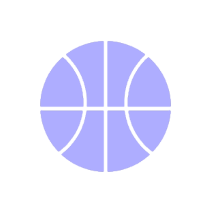
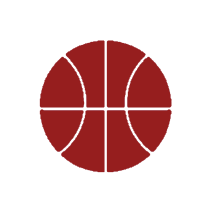
Hobbies upgrade, contact finished

Changed region(s): [[0.1698, 0.169, 0.8208, 0.8169]]

diff --git a/index.html b/index.html
@@ -21,6 +21,7 @@
     <link rel="stylesheet" href="https://cdnjs.cloudflare.com/ajax/libs/font-awesome/4.7.0/css/font-awesome.min.css">
     <link rel="stylesheet" href="https://maxcdn.bootstrapcdn.com/bootstrap/4.0.0/css/bootstrap.min.css"
           integrity="sha384-Gn5384xqQ1aoWXA+058RXPxPg6fy4IWvTNh0E263XmFcJlSAwiGgFAW/dAiS6JXm" crossorigin="anonymous">
+    <script async src="https://www.youtube.com/iframe_api"></script>
 
     <!--Local styles import-->
     <link href="styles/style.css" rel="stylesheet" type="text/css">
@@ -255,7 +256,7 @@
 
 
 <!--Skills Section-->
-<div class="container-fluid">
+<div class="container-fluid skills">
     <div class="row justify-content-around skills-title">
         <div class="col">
             <h1 id="skills-header">Skills</h1>
@@ -280,6 +281,12 @@
 
 <!--Hobbies Section-->
 <div class="container-fluid">
+    <div class="video-background">
+        <div class="video-foreground">
+            <iframe src="https://www.youtube.com/embed/R9wa-7tpods?controls=0&showinfo=0&rel=0&autoplay=1&loop=1&enablejsapi=1"
+                    id="rugby-background" frameborder="0" allowfullscreen></iframe>
+        </div>
+    </div>
     <div class="row pagination-centered hobbies-title">
         <div class="col">
             <h1 id="hobbies-header">Hobbies</h1>
@@ -297,7 +304,7 @@
             <h1 id="contact-header">Contact</h1>
         </div>
     </div>
-    <div class="row justify-content-around">
+    <div class="row justify-content-around contact-block">
         <div class="col-sm-2 center-items">
             <a href="https://github.com/jmalovera10" target="_blank">
                 <span class="fa-stack fa-4x">
@@ -315,7 +322,7 @@
             </a>
         </div>
         <div class="col-sm-2 center-items">
-            <a href="jma.lovera10@uniandes.edu.co" target="_blank">
+            <a href="mailto:jma.lovera10@uniandes.edu.co?">
                 <span class="fa-stack fa-4x">
                     <i class="fa fa-square-o fa-stack-2x"></i>
                     <i class="fa fa-envelope fa-stack-1x"></i>
@@ -366,6 +373,35 @@
 
 <script>
     new WOW().init();
+</script>
+
+<script>
+    function onYouTubeIframeAPIReady() {
+
+        var player;
+
+        player = new YT.Player('rugby-background', {
+            videoId: 'nfk6sCzRTbM',     // THE VIDEO ID.
+            width: 560,
+            height: 316,
+            playerVars: {
+                'autoplay': 1,
+                'controls': 1,
+                'showinfo': 0,
+                'modestbranding': 0,
+                'loop': 1,
+                'fs': 0,
+                'cc_load_policty': 0,
+                'iv_load_policy': 3
+            },
+            events: {
+                'onReady': function (e) {
+                    e.target.mute();
+                    e.target.setVolume(50);      // YOU CAN SET VALUE TO 100 FOR MAX VOLUME.
+                }
+            }
+        });
+    }
 </script>
 
 </body>

diff --git a/styles/style.css b/styles/style.css
@@ -183,6 +183,9 @@ Experience Styles
     -webkit-background-size: cover;
     -moz-background-size: cover;
     -o-background-size: cover;
+    padding-bottom: 0;
+    margin-bottom: 0;
+    border-bottom: solid 10px rgba(30,30,30,1);
 }
 
 .experience-title {
@@ -352,6 +355,12 @@ Timeline Styles
 Skills Styles
  ----------------------------------*/
 
+.skills{
+    padding-top: 0;
+    margin-top: 0 ;
+    border-top: 0;
+}
+
 .skills-title {
     background: rgba(30, 30, 30, 1);
 }
@@ -374,6 +383,7 @@ Skills Styles
 #lovera-skills-image{
     height: 10%;
     width: 10%;
+    padding-top: 3em;
 }
 
 #lovera-skills-image h2{
@@ -382,8 +392,9 @@ Skills Styles
 }
 
 #lovera-character{
-    width: 80%;
+    width: 70%;
     border-radius: 25px;
+    padding-bottom: 3em;
 }
 
 .skill-image{
@@ -397,7 +408,7 @@ Skills Styles
     width: 100%;
     padding-top: 5px;
     padding-bottom: 5px;
-    background-color: #4CAF50;
+    background-color: rgb(150,30,30);
     border: solid rgba(0,0,0,0) 10px;
     margin-top: 10px;
     border-radius: 20px;
@@ -411,8 +422,45 @@ Skills Styles
 Hobbies Styles
  ----------------------------------*/
 
+* { box-sizing: border-box; }
+.video-background {
+    background: #000;
+    position: fixed;
+    top: 0; right: 0; bottom: 0; left: 0;
+    z-index: -99;
+}
+.video-foreground,
+.video-background iframe {
+    position: absolute;
+    top: 0;
+    left: 0;
+    width: 100%;
+    height: 100%;
+    pointer-events: none;
+}
+#vidtop-content {
+    top: 0;
+    color: #fff;
+}
+.vid-info { position: absolute; top: 0; right: 0; width: 33%; background: rgba(0,0,0,0.3); color: #fff; padding: 1rem; font-family: Avenir, Helvetica, sans-serif; }
+.vid-info h1 { font-size: 2rem; font-weight: 700; margin-top: 0; line-height: 1.2; }
+.vid-info a { display: block; color: #fff; text-decoration: none; background: rgba(0,0,0,0.5); transition: .6s background; border-bottom: none; margin: 1rem auto; text-align: center; }
+@media (min-aspect-ratio: 16/9) {
+    .video-foreground { height: 300%; top: -100%; }
+}
+@media (max-aspect-ratio: 16/9) {
+    .video-foreground { width: 300%; left: -100%; }
+}
+@media all and (max-width: 600px) {
+    .vid-info { width: 50%; padding: .5rem; }
+    .vid-info h1 { margin-bottom: .2rem; }
+}
+@media all and (max-width: 500px) {
+    .vid-info .acronym { display: none; }
+}
+
 .hobbies-title {
-    background: rgba(30, 30, 30, 1);
+    background: rgba(30, 30, 30, 0.5);
 }
 
 .hobbies-title h1 {
@@ -426,7 +474,7 @@ Hobbies Styles
 }
 
 .hobbies-block{
-    background: rgba(30, 30, 30, 1);
+    background: rgba(30, 30, 30, 0.5);
     padding: 5px;
     color: beige;
 }
@@ -462,6 +510,14 @@ Contact Styles
     padding-bottom: 0.2em;
 }
 
+.contact-block{
+    background: rgba(30, 30, 30, 1);
+    border: solid 4em rgba(0,0,0,0);
+}
+
+.fa{
+    color: rgb(150,30,30);
+}
 
 /*---------------------------------
 Footer Styles

diff --git a/scripts/main.js b/scripts/main.js
@@ -2,13 +2,6 @@
 'use strict';
 function main() {
 
-    /*$(window).resize(function(){
-        var tamPagina = $(document).height();
-        if(tamPagina>=$(".home-header").height){
-            $(".home-header").height(tamPagina);
-        }
-    });*/
-
     /*----------------------------------------
     Skill set initialization inside index.html
      -----------------------------------------*/
